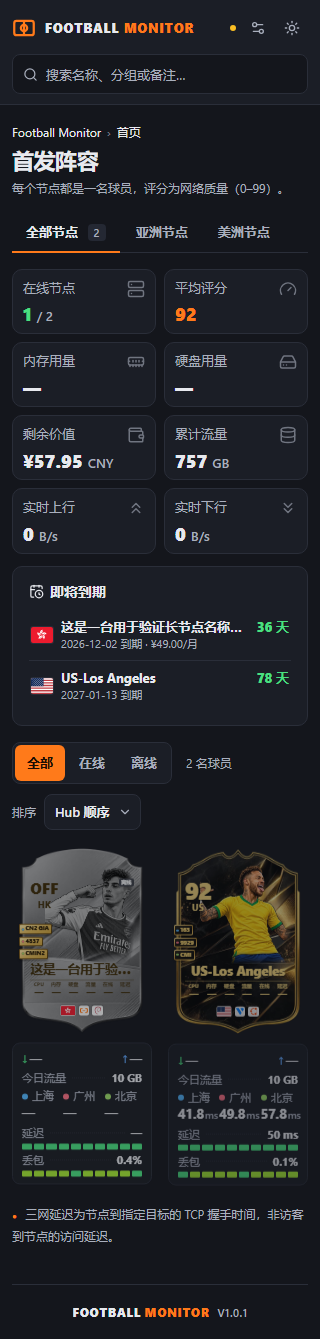
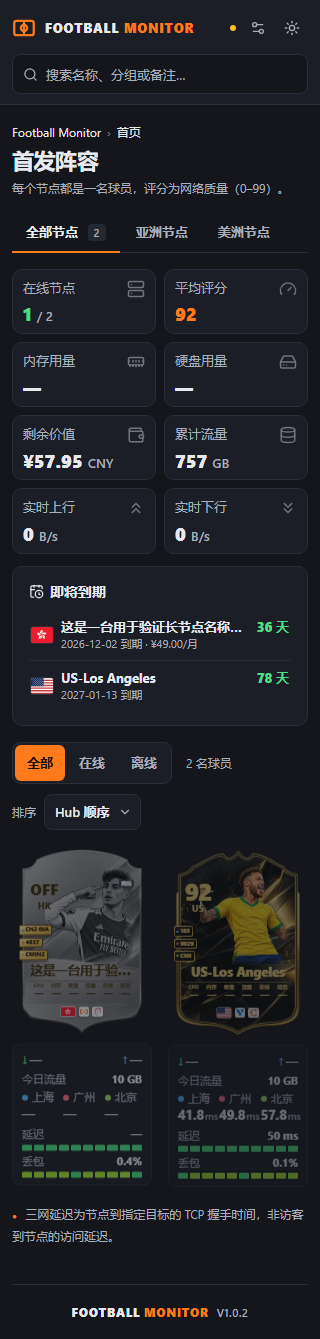
Football Monitor 1.0.2
Bump the version, add the 1.0.2 changelog, drop the README style credit,
refresh the screenshots with the new footer version, and read the
expected footer version from theme.json in the dashboard test.

diff --git a/tests/dashboard.test.ts b/tests/dashboard.test.ts
@@ -332,7 +332,8 @@ describe('top bar search', () => {
 
   it('shows the theme version in the footer and the text wordmark', async () => {
     const { wrapper } = await mountApp('/settings')
-    expect(wrapper.find('.site-footer').text()).toContain('V1.0.1')
+    const { version } = JSON.parse(readFileSync('theme.json', 'utf8')) as { version: string }
+    expect(wrapper.find('.site-footer').text()).toContain(`V${version}`)
     expect(wrapper.find('.brand').text().replace(/\s+/g, '')).toBe('FOOTBALLMONITOR')
     wrapper.unmount()
   })

diff --git a/docs/manual.md b/docs/manual.md
@@ -1,6 +1,6 @@
 # Football Monitor
 
-**你的服务器，你的主场。** 为极简探针 Monitor 构建的第三方足球球星卡主题。Vue 3 静态 SPA，当前版本 `1.0.1`。源码与发布：<https://github.com/NSJLUCAS/football-monitor>。
+**你的服务器，你的主场。** 为极简探针 Monitor 构建的第三方足球球星卡主题。Vue 3 静态 SPA，当前版本 `1.0.2`。源码与发布：<https://github.com/NSJLUCAS/football-monitor>。
 
 ![首页：本地模拟 API 的视觉验收](docs/screenshots/dashboard-1440.png)
 
@@ -82,7 +82,7 @@ npm run package:check  # 独立 gzip/tar/manifest/资源/限制校验
 | `football-monitor.tar.gz` | 根部为 `football-monitor/` 目录                 | 人工解压得到完整主题目录，放入 Hub 的 `--themes` 目录；不要上传给后台安装器                   |
 | `SHA256SUMS.txt`          | 两个包的 SHA-256                                | `sha256sum -c SHA256SUMS.txt` 校验下载                                                        |
 
-两包包含相同构建文件，`short` 均为 `football-monitor`。`theme.json` 的 `url` 指向本仓库，`version` 与 release 标签一致（`v1.0.1` 对 `1.0.1`）。
+两包包含相同构建文件，`short` 均为 `football-monitor`。`theme.json` 的 `url` 指向本仓库，`version` 与 release 标签一致（`v1.0.2` 对 `1.0.2`）。
 
 三种安装方式：
 

diff --git a/README.md b/README.md
@@ -2,7 +2,7 @@
 
 为极简探针 Monitor 打造的足球球星卡主题：每台服务器都是一名球员，**你的服务器，你的主场**。
 
-由 [NSJLUCAS](https://github.com/NSJLUCAS) 维护，当前版本 `1.0.1`。
+由 [NSJLUCAS](https://github.com/NSJLUCAS) 维护，当前版本 `1.0.2`。
 
 [![preview](preview.png)](preview.png)
 
@@ -119,7 +119,7 @@ release/SHA256SUMS.txt             # SHA-256 校验
 
 ## 鸣谢
 
-- 极简探针 Monitor 及其主题机制；README 体例参考 [monitor-theme-emerald](https://github.com/binaryu/monitor-theme-emerald)
+- 极简探针 Monitor 及其主题机制
 - 金卡、周黑、开拓者、传奇卡面与 5 张默认立绘由站长提供；立绘为真实球员插画，肖像与商标归各自权利人所有，详见 [THIRD_PARTY_NOTICES.md](THIRD_PARTY_NOTICES.md)
 - 版式参考 FUT.GG；本项目与 EA 无隶属关系，不使用 EA 的素材、商标或字体
 

diff --git a/CHANGELOG.md b/CHANGELOG.md
@@ -1,5 +1,17 @@
 # Changelog
 
+## 1.0.2 · 2026-10-27 · 今日流量、卡片渐显与更快加载
+
+### Added
+
+- 每张球星卡显示今日流量（悬停看上下行），详情页“费用与流量”新增今日流量块。
+- 打开页面时卡片依次淡入；关闭动效或系统减少动态效果时不播放。
+
+### Changed
+
+- 启动时节点、站点信息与设置同时请求，可见卡片优先加载探针历史，屏幕外卡面延迟加载。
+- 内置立绘“蓝衫抱臂”换为站长提供的“天蓝怒吼”；已选旧立绘的节点自动改用新立绘。
+
 ## 1.0.1 · 2026-10-27 · 发布后反馈修复
 
 内置立绘为站长提供的真实球员插画，不属于 MIT 授权，见 THIRD_PARTY_NOTICES。
